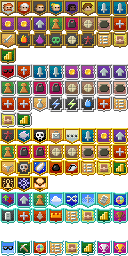
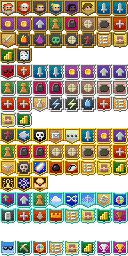
Badge for the first talk with Angela, with a welcome script and 100 boxes
- New bronze badge 'welcome to Lobotomy Corporation' (cell 25, Angela's face),
  unlocked the first time the profile talks to Angela, seeded runs included
- That first talk plays a three page welcome before her menu and stores 100
  enkephalin boxes in the warehouse
- The gift is recorded in warehouse.dat together with the boxes, so it can only
  ever be given once; a profile that already has the badge gets no gift either

Claude-Session: https://claude.ai/code/session_01CLpxJCP8pRQaCKBaMF3uRd

Changed region(s): [[0.125, 0.1875, 0.25, 0.25]]

diff --git a/core/src/main/java/com/shatteredpixel/shatteredpixeldungeon/actors/mobs/npcs/Angela.java b/core/src/main/java/com/shatteredpixel/shatteredpixeldungeon/actors/mobs/npcs/Angela.java
@@ -24,6 +24,7 @@ package com.shatteredpixel.shatteredpixeldungeon.actors.mobs.npcs;
 
 import com.shatteredpixel.shatteredpixeldungeon.Dungeon;
 import com.shatteredpixel.shatteredpixeldungeon.Assets;
+import com.shatteredpixel.shatteredpixeldungeon.Badges;
 import com.shatteredpixel.shatteredpixeldungeon.effects.Speck;
 import com.shatteredpixel.shatteredpixeldungeon.items.Item;
 import com.shatteredpixel.shatteredpixeldungeon.lobotomy.RiskLevel;
@@ -53,6 +54,7 @@ import com.shatteredpixel.shatteredpixeldungeon.sprites.FruitOfUnderstandingSpri
 import com.shatteredpixel.shatteredpixeldungeon.sprites.PerfectFoodSprite;
 import com.shatteredpixel.shatteredpixeldungeon.utils.GLog;
 import com.shatteredpixel.shatteredpixeldungeon.windows.WndOptions;
+import com.shatteredpixel.shatteredpixeldungeon.windows.WndQuest;
 import com.shatteredpixel.shatteredpixeldungeon.windows.WndTitledMessage;
 import com.watabou.noosa.Game;
 import com.watabou.utils.Bundle;
@@ -112,8 +114,40 @@ public class Angela extends NPC {
 			Quest.type = Random.Int(3) + 1;
 		}
 
+		//the very first talk with Angela on this profile: her welcome, the badge and the gift
+		if (!Warehouse.welcomed()){
+			boolean before = Badges.isUnlocked(Badges.Badge.WELCOME_TO_LOBOTOMY);
+			//a profile that already has the badge has met her before, so it gets no second gift
+			boolean gift = !before && Warehouse.claimWelcome(WELCOME_REWARD);
+			if (before) Warehouse.claimWelcome(0);
+			Badges.validateWelcomeToLobotomy();
+			if (gift){
+				GLog.p(Messages.get(Angela.class, "welcome_reward", WELCOME_REWARD, Warehouse.enkephalin()));
+				Game.runOnRenderThread(() -> showWelcome(1));
+				return true;
+			}
+		}
+
 		Game.runOnRenderThread(this::showMenu);
 		return true;
+	}
+
+	//enkephalin boxes given once ever, with the welcome badge
+	public static final int WELCOME_REWARD = 100;
+	private static final int WELCOME_PAGES = 3;
+
+	private void showWelcome( int page ){
+		GameScene.show(new WndQuest(this, Messages.get(Angela.class, "welcome_" + page, WELCOME_REWARD)){
+			@Override
+			public void hide() {
+				super.hide();
+				if (page < WELCOME_PAGES){
+					showWelcome(page + 1);
+				} else {
+					showMenu();
+				}
+			}
+		});
 	}
 
 	//Angela's services: the ordeal, E.G.O extraction and E.G.O refining, each paid for with enkephalin boxes

diff --git a/core/src/main/java/com/shatteredpixel/shatteredpixeldungeon/lobotomy/Warehouse.java b/core/src/main/java/com/shatteredpixel/shatteredpixeldungeon/lobotomy/Warehouse.java
@@ -38,17 +38,22 @@ public class Warehouse {
 	public static final String WAREHOUSE_FILE = "warehouse.dat";
 
 	private static final String ENKEPHALIN = "enkephalin";
+	private static final String WELCOMED   = "welcomed";
 
 	private static boolean loaded = false;
 	private static int enkephalin = 0;
+	//whether Angela's welcome gift has been given, it can only ever be given once
+	private static boolean welcomed = false;
 
 	private static void load(){
 		if (loaded) return;
 		try {
 			Bundle bundle = FileUtils.bundleFromFile( WAREHOUSE_FILE );
 			enkephalin = Math.max(0, bundle.getInt( ENKEPHALIN ));
+			welcomed = bundle.getBoolean( WELCOMED );
 		} catch (IOException e){
 			enkephalin = 0;
+			welcomed = false;
 		}
 		loaded = true;
 	}
@@ -56,6 +61,7 @@ public class Warehouse {
 	private static void save(){
 		Bundle bundle = new Bundle();
 		bundle.put( ENKEPHALIN, enkephalin );
+		bundle.put( WELCOMED, welcomed );
 		try {
 			FileUtils.bundleToFile( WAREHOUSE_FILE, bundle );
 		} catch (IOException e){
@@ -66,6 +72,21 @@ public class Warehouse {
 	public static int enkephalin(){
 		load();
 		return enkephalin;
+	}
+
+	public static boolean welcomed(){
+		load();
+		return welcomed;
+	}
+
+	//gives the welcome gift and records it in the same save, returns false if it was already given
+	public static boolean claimWelcome( int amount ){
+		load();
+		if (welcomed) return false;
+		welcomed = true;
+		enkephalin = Math.max(0, enkephalin + amount);
+		save();
+		return true;
 	}
 
 	public static void addEnkephalin( int amount ){

diff --git a/core/src/main/java/com/shatteredpixel/shatteredpixeldungeon/Badges.java b/core/src/main/java/com/shatteredpixel/shatteredpixeldungeon/Badges.java
@@ -98,6 +98,7 @@ public class Badges {
 		RESEARCHER_1                ( 22, BadgeType.JOURNAL ),
 		GAMES_PLAYED_1              ( 23, BadgeType.GLOBAL ),
 		HIGH_SCORE_1                ( 24 ),
+		WELCOME_TO_LOBOTOMY         ( 25, BadgeType.JOURNAL ), //first talk with Angela, unlocks in seeded runs too like the warehouse it rewards
 
 		//silver
 		NO_MONSTERS_SLAIN           ( 32 ),
@@ -1106,6 +1107,12 @@ public class Badges {
 		}
 	}
 	
+	//welcome to Lobotomy Corporation: the first talk with Angela, on any save of this profile
+	public static void validateWelcomeToLobotomy() {
+		displayBadge( Badge.WELCOME_TO_LOBOTOMY );
+		saveGlobal();
+	}
+
 	public static void validateGamesPlayed() {
 		Badge badge = null;
 		if (Rankings.INSTANCE.totalNumber >= 10 || Rankings.INSTANCE.wonNumber >= 1) {
